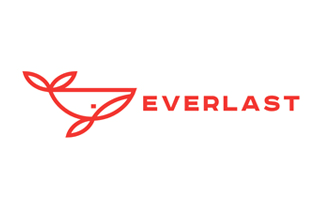
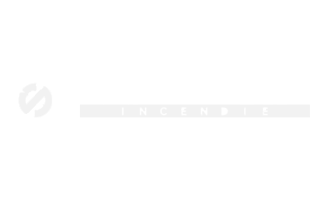
slider change

Changed region(s): [[0.0625, 0.33, 0.9375, 0.69]]

diff --git a/sass/blocks/partners.scss b/sass/blocks/partners.scss
@@ -1,5 +1,5 @@
 .partners {
-    padding: 20px 0;
+    padding: 40px 0;
     color: #ffffff;
     background-color: #533ee0;
 }
@@ -7,6 +7,20 @@
 .partners__slider {
     width: 100%;
     overflow: hidden;
+}
+
+.partners__title {
+    margin: 0;
+    margin-bottom: 5px;
+}
+
+.partners__additional {
+    margin: 0;
+    margin-bottom: 20px;
+    font-weight: bold;
+    font-family: $main-text;
+    font-size: 18px;
+    color: #000000;
 }
 
 .parnters__item {
@@ -77,13 +91,14 @@
 
 @keyframes slide {
     0% {transform: translateX(0%)};
-    10% {transform: translateX(-100%)};
-    25% {transform: translateX(-100%)};
-    35% {transform: translateX(-200%)};
-    50% {transform: translateX(-200%)};
-    60% {transform: translateX(-300%)};
-    75% {transform: translateX(-300%)};
-    85% {transform: translateX(-400%)};
+    11% {transform: translateX(0%)};
+    22% {transform: translateX(-100%)};
+    33% {transform: translateX(-100%)};
+    44% {transform: translateX(-200%)};
+    55% {transform: translateX(-200%)};
+    66% {transform: translateX(-300%)};
+    77% {transform: translateX(-300%)};
+    88% {transform: translateX(-400%)};
     100% {transform: translateX(-400%)};
 }
 

diff --git a/css/style.css b/css/style.css
@@ -851,13 +851,25 @@ h2 {
     border-radius: 0px 0px 10px 10px; } }
 
 .partners {
-  padding: 20px 0;
+  padding: 40px 0;
   color: #ffffff;
   background-color: #533ee0; }
 
 .partners__slider {
   width: 100%;
   overflow: hidden; }
+
+.partners__title {
+  margin: 0;
+  margin-bottom: 5px; }
+
+.partners__additional {
+  margin: 0;
+  margin-bottom: 20px;
+  font-weight: bold;
+  font-family: "Arial", Helvetica, sans-serif;
+  font-size: 18px;
+  color: #000000; }
 
 .parnters__item {
   width: 15%;
@@ -911,19 +923,21 @@ h2 {
 @keyframes slide {
   0% {
     transform: translateX(0%); }
-  10% {
+  11% {
+    transform: translateX(0%); }
+  22% {
     transform: translateX(-100%); }
-  25% {
+  33% {
     transform: translateX(-100%); }
-  35% {
+  44% {
     transform: translateX(-200%); }
-  50% {
+  55% {
     transform: translateX(-200%); }
-  60% {
+  66% {
     transform: translateX(-300%); }
-  75% {
+  77% {
     transform: translateX(-300%); }
-  85% {
+  88% {
     transform: translateX(-400%); }
   100% {
     transform: translateX(-400%); } }
